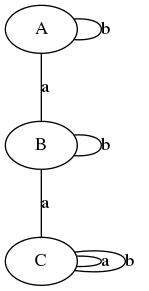
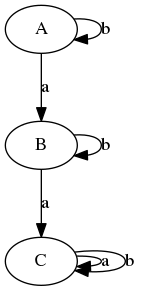
another beta version

diff --git a/Automate.py b/Automate.py
@@ -37,7 +37,7 @@ class Automate:
 	def afficher(self):
 		print("Les différentes transitions avant la determinisation ")
 		print(self.handlers)
-		graphAFN = graphviz.Graph(format='png')
+		graphAFN = graphviz.Digraph(format='png')
 		for lettre in self.listeAlphabets:
 			graphAFN.node(lettre)
 
@@ -97,7 +97,7 @@ class Automate:
 
 
 	def afficherAFD(self):
-		graphAFD = graphviz.Graph(format='png')
+		graphAFD = graphviz.Digraph(format='png')
 		print(self.AFDListeAlphabets)
 		for a in self.AFDListeAlphabets:
 			#print("Alphabet : {} ".format(a))
